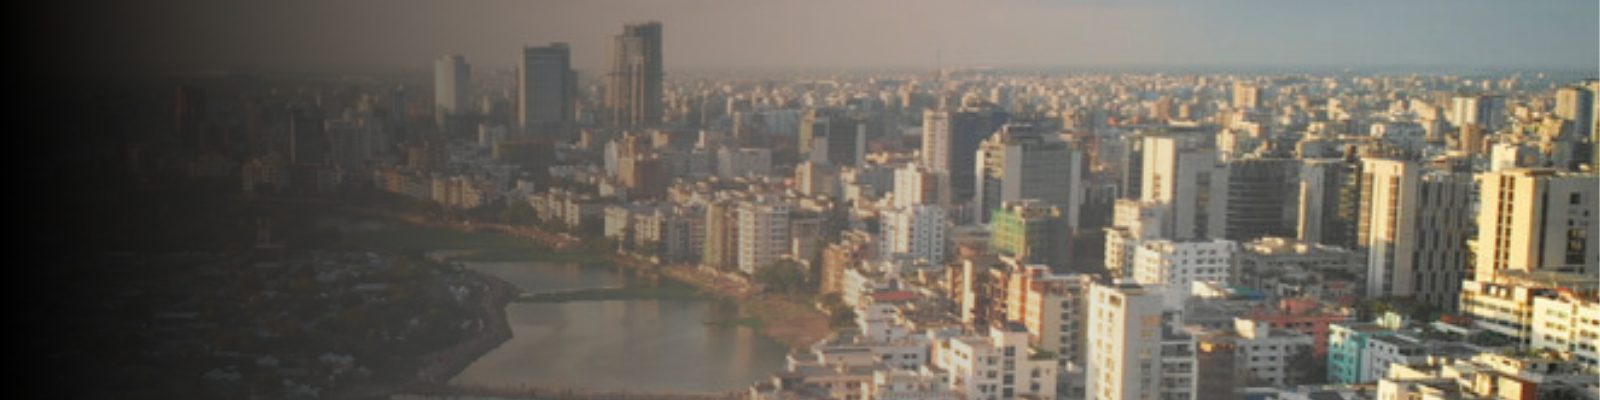
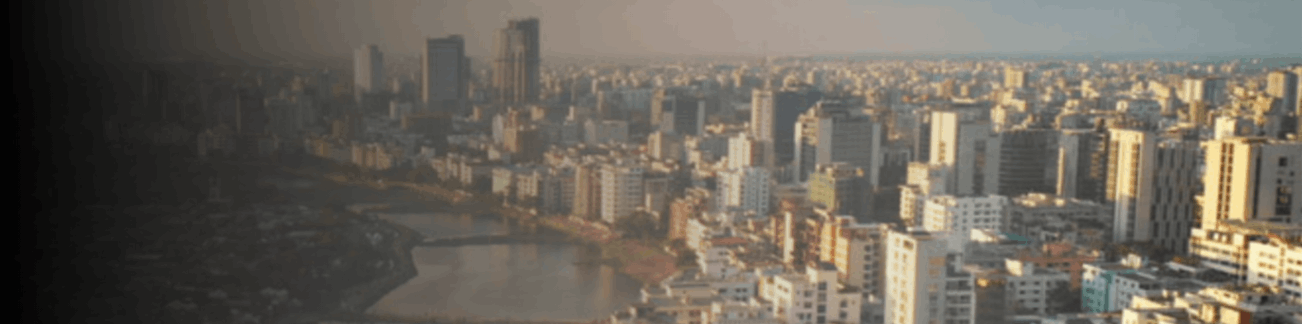
initial

diff --git a/pages/privacy.js b/pages/privacy.js
@@ -1,0 +1,69 @@
+import React from 'react'
+
+export default function Privacy() {
+  return (
+    <div className='privacy_page page'>
+      <div className='container'>
+        <div className='header'>
+          <h1>Privacy Policy</h1>
+        </div>
+
+        <div className='privacy_text'>
+          <p>At Hovered News, accessible from https://hoverednews.vercel.app, one of our main priorities is the privacy of our visitors. This Privacy Policy document contains types of information that is collected and recorded by Hovered News and how we use it.</p>
+          <p>If you have additional questions or require more information about our Privacy Policy, do not hesitate to contact us.</p>
+          <p>This Privacy Policy applies only to our online activities and is valid for visitors to our website with regards to the information that they shared and/or collect in Hovered News. This policy is not applicable to any information collected offline or via channels other than this website. Our Privacy Policy was created with the help of the Free Privacy Policy Generator.</p>
+          <p>Consent
+          <br />
+          <br />
+          By using our website, you hereby consent to our Privacy Policy and agree to its terms.</p>
+          <p>Information we collect
+          <br />
+          <br />
+          The personal information that you are asked to provide, and the reasons why you are asked to provide it, will be made clear to you at the point we ask you to provide your personal information.</p>
+          <p>If you contact us directly, we may receive additional information about you such as your name, email address, phone number, the contents of the message and/or attachments you may send us, and any other information you may choose to provide.</p>
+          <p>When you register for an Account, we may ask for your contact information, including items such as name, company name, address, email address, and telephone number.</p>
+          <p>How we use your information
+          <br />
+          <br />
+          We use the information we collect in various ways, including to:</p>
+          <p>Provide, operate, and maintain our website<br />
+          Improve, personalize, and expand our website<br />
+          Understand and analyze how you use our website<br />
+          Develop new products, services, features, and functionality<br />
+          Communicate with you, either directly or through one of our partners, including for customer service, to provide you with updates and other information relating to the website, and for marketing and promotional purposes<br />
+          Send you emails<br />
+          Find and prevent fraud<br />
+          Log Files<br />
+          Hovered News follows a standard procedure of using log files. These files log visitors when they visit websites. All hosting companies do this and a part of hosting services' analytics. The information collected by log files include internet protocol (IP) addresses, browser type, Internet Service Provider (ISP), date and time stamp, referring/exit pages, and possibly the number of clicks. These are not linked to any information that is personally identifiable. The purpose of the information is for analyzing trends, administering the site, tracking users' movement on the website, and gathering demographic information.</p>
+          <p>Google DoubleClick DART Cookie<br />
+          Google is one of a third-party vendor on our site. It also uses cookies, known as DART cookies, to serve ads to our site visitors based upon their visit to www.website.com and other sites on the internet. However, visitors may choose to decline the use of DART cookies by visiting the Google ad and content network Privacy Policy at the following URL &ndash; https://policies.google.com/technologies/ads</p>
+          <p>Advertising Partners Privacy Policies<br />
+          You may consult this list to find the Privacy Policy for each of the advertising partners of Hovered News.</p>
+          <p>Third-party ad servers or ad networks uses technologies like cookies, JavaScript, or Web Beacons that are used in their respective advertisements and links that appear on Hovered News, which are sent directly to users' browser. They automatically receive your IP address when this occurs. These technologies are used to measure the effectiveness of their advertising campaigns and/or to personalize the advertising content that you see on websites that you visit.</p>
+          <p>Note that Hovered News has no access to or control over these cookies that are used by third-party advertisers.</p>
+          <p>Third Party Privacy Policies<br />
+          Hovered News's Privacy Policy does not apply to other advertisers or websites. Thus, we are advising you to consult the respective Privacy Policies of these third-party ad servers for more detailed information. It may include their practices and instructions about how to opt-out of certain options.</p>
+          <p>You can choose to disable cookies through your individual browser options. To know more detailed information about cookie management with specific web browsers, it can be found at the browsers' respective websites.</p>
+          <p>CCPA Privacy Rights (Do Not Sell My Personal Information)<br />
+          Under the CCPA, among other rights, California consumers have the right to:</p>
+          <p>Request that a business that collects a consumer's personal data disclose the categories and specific pieces of personal data that a business has collected about consumers.</p>
+          <p>Request that a business delete any personal data about the consumer that a business has collected.</p>
+          <p>Request that a business that sells a consumer's personal data, not sell the consumer's personal data.</p>
+          <p>If you make a request, we have one month to respond to you. If you would like to exercise any of these rights, please contact us.</p>
+          <p>GDPR Data Protection Rights<br />
+          We would like to make sure you are fully aware of all of your data protection rights. Every user is entitled to the following:</p>
+          <p>The right to access &ndash; You have the right to request copies of your personal data. We may charge you a small fee for this service.</p>
+          <p>The right to rectification &ndash; You have the right to request that we correct any information you believe is inaccurate. You also have the right to request that we complete the information you believe is incomplete.</p>
+          <p>The right to erasure &ndash; You have the right to request that we erase your personal data, under certain conditions.</p>
+          <p>The right to restrict processing &ndash; You have the right to request that we restrict the processing of your personal data, under certain conditions.</p>
+          <p>The right to object to processing &ndash; You have the right to object to our processing of your personal data, under certain conditions.</p>
+          <p>The right to data portability &ndash; You have the right to request that we transfer the data that we have collected to another organization, or directly to you, under certain conditions.</p>
+          <p>If you make a request, we have one month to respond to you. If you would like to exercise any of these rights, please contact us.</p>
+          <p>Children's Information<br />
+          Another part of our priority is adding protection for children while using the internet. We encourage parents and guardians to observe, participate in, and/or monitor and guide their online activity.</p>
+          <p>Hovered News does not knowingly collect any Personal Identifiable Information from children under the age of 13. If you think that your child provided this kind of information on our website, we strongly encourage you to contact us immediately and we will do our best effo</p>
+        </div>
+      </div>
+    </div>
+  )
+}

diff --git a/styles/privacy.css b/styles/privacy.css
@@ -1,0 +1,30 @@
+.privacy_page .header{
+  width: 100%;
+  border-radius: 10px;
+  overflow: hidden;
+  height: 180px;
+  display: flex;
+  align-items: center;
+  background-position-x: right;
+  background-size: cover;
+  padding: 0 50px;
+  background-image: linear-gradient(to right, rgba(0, 0, 0, 0.5) 50%,
+  rgba(255, 255, 255, 0)), url('../assets/images/page\ banners/about.png');
+}
+.privacy_page .header h1{
+  font-size: 30px;
+  font-family: var(--fontFamily1);
+  font-weight: 800;
+  color: white;
+  margin-top: -5px;
+  margin-bottom: 0;
+}
+
+.privacy_page .privacy_text{
+  padding: 40px 0 0;
+  font-size: 18px;
+  font-family: var(--fontFamily1);
+  font-weight: 400;
+  color: var(--color1);
+  line-height: 1.5;
+}

diff --git a/pages/_app.js b/pages/_app.js
@@ -19,6 +19,7 @@ import '../styles/news.css'
 import '../styles/topic.css'
 import '../styles/about.css'
 import '../styles/contact.css'
+import '../styles/privacy.css'
 
 function MyApp({ Component, pageProps }) {
   const [showPageTransition, setShowPageTransition] = useState(false);
